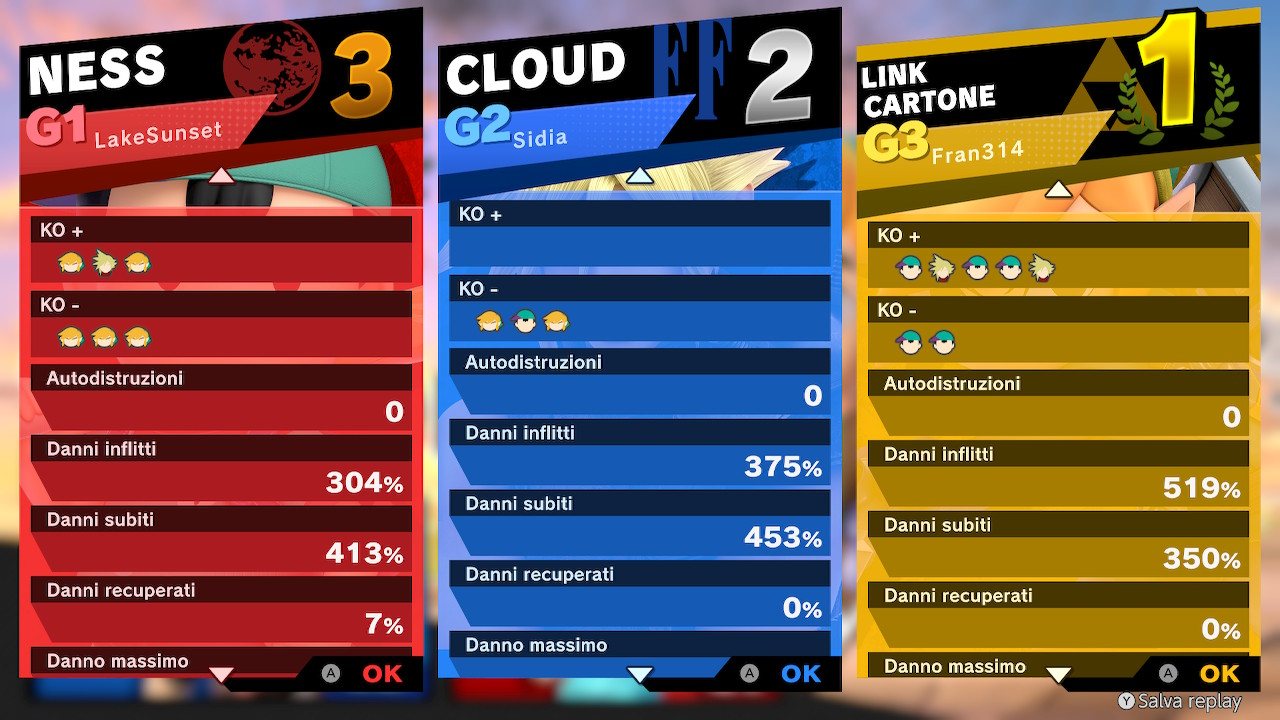
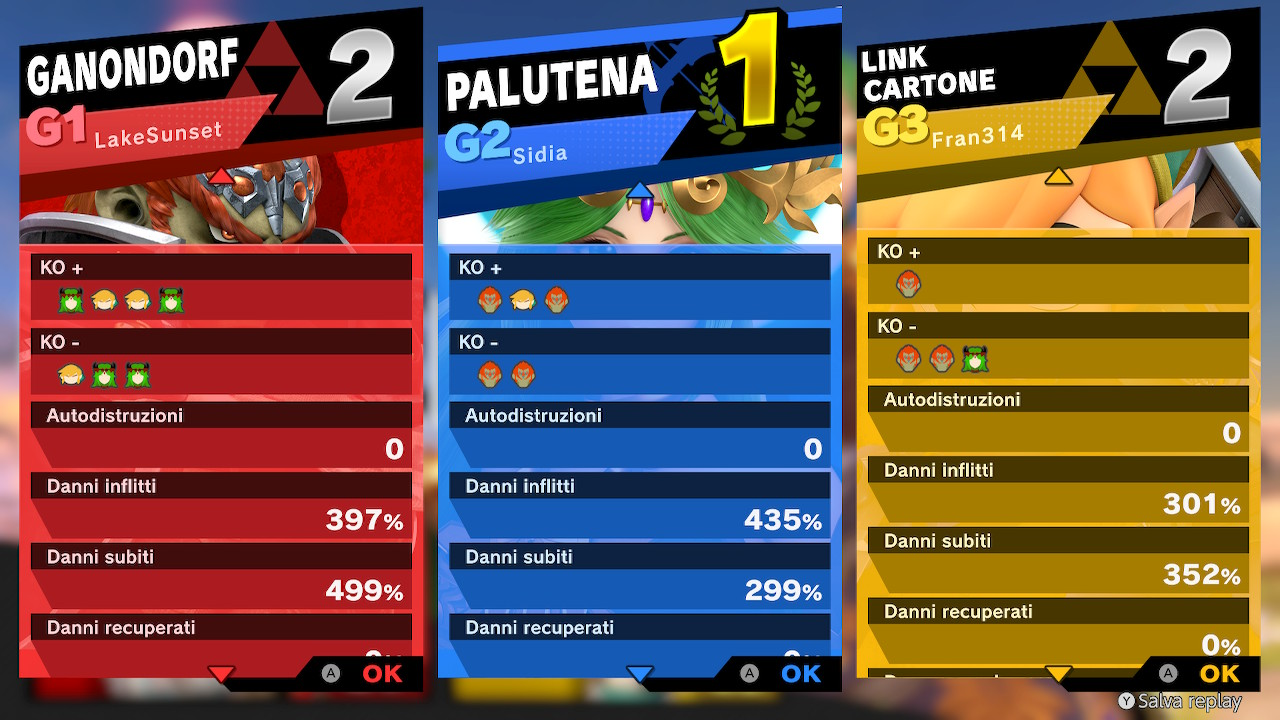
Second attempt to damage reading + bug fixing

diff --git a/SmashSecondData.py b/SmashSecondData.py
@@ -118,18 +118,23 @@ def getClosestPlayer(image, null_image, characters):
         character_distances = []
         for j in range(8):
             path = os.path.join(ICONS_FOLDER, folderizeName(characters[i]), str(j+1) + ".png")
-            character_image = cv2.imread(path)
+            character_image = cv2.imread(path, flags=cv2.IMREAD_UNCHANGED)
             character_image = cv2.cvtColor(character_image, cv2.COLOR_BGR2RGBA)
-            character_distances.append(imageDistance(character_image, image))
+            distance = imageDistance(character_image, image)
+            character_distances.append(distance)
         distances.append(numpy.min(character_distances))
     return numpy.argmin(distances) - 1
 
+def showImage(image):
+    image = cv2.cvtColor(image, cv2.COLOR_RGBA2BGR)
+    cv2.imshow("image", image)
+    cv2.waitKey(0)
 #--- ---#
 
 
 #--- TEST VARIABLES ---#
 positions = [3, 2, 1]
-characters = ["NESS", "CLOUD", "TOON LINK"]
+characters = ["GANONDORF", "PALUTENA", "TOON LINK"]
 #--- ---#
 
 
@@ -164,40 +169,46 @@ for i in range(PLAYERS):
     kill_icon_y = anchor_points[i] + KILLS_AC_OFF_Y
     kill_image = data[kill_icon_y : kill_icon_y + KILL_ICON_SIZE, kill_icon_x : kill_icon_x + KILL_ICON_SIZE]
     killer = getClosestPlayer(kill_image, null_images[i], characters)
-    if(killer != -1):
-        kill_string.append(killer + 1)
+    kill_string.append(killer + 1)
     
     kill_icon_x += KILLS_OFFSET
     kill_image = data[kill_icon_y : kill_icon_y + KILL_ICON_SIZE, kill_icon_x : kill_icon_x + KILL_ICON_SIZE]
     killer = getClosestPlayer(kill_image, null_images[i], characters)
-    if(killer != -1):
-        kill_string.append(killer + 1)
+    kill_string.append(killer + 1)
 
     kill_icon_x += KILLS_OFFSET
     kill_image = data[kill_icon_y : kill_icon_y + KILL_ICON_SIZE, kill_icon_x : kill_icon_x + KILL_ICON_SIZE]
     killer = getClosestPlayer(kill_image, null_images[i], characters)
-    if(killer != -1):
-        kill_string.append(killer + 1)
+    kill_string.append(killer + 1)
 
     kills.append(kill_string)
 
 given_damages = []
+taken_damages = []
 for i in range(PLAYERS):
     damage_x = AP_Xs[i] + DAMAGE_OFF_X
     given_dmg_y = anchor_points[i] + GIVEN_DMG_OFF_Y
     given_damage_rect = data[given_dmg_y : given_dmg_y + DAMAGE_HEIGHT, damage_x : damage_x + DAMAGE_WIDTH]
-    #for j in range(DAMAGE_RIGHT_BORDER_WIDTH):
-    #    for h in range(DAMAGE_HEIGHT):
-    #        given_damage_rect[h, -j] = numpy.array([0, 0, 0, 255])
-    #given_damage_rect = polarizeImage(given_damage_rect)
-    #given_damage_rect = cv2.resize(given_damage_rect, (2*DAMAGE_WIDTH, 2*DAMAGE_HEIGHT))
+    for j in range(DAMAGE_RIGHT_BORDER_WIDTH):
+        for h in range(DAMAGE_HEIGHT):
+            given_damage_rect[h, -j] = given_damage_rect[4, 1]
+    
+    given_damage_rect = cv2.resize(given_damage_rect, (3*DAMAGE_WIDTH, 3*DAMAGE_HEIGHT), interpolation=cv2.INTER_LANCZOS4)
     given_damages.append(normalizeDamage(pytesseract.image_to_string(given_damage_rect)))
+
+    taken_dmg_y = anchor_points[i] + TAKEN_DMG_OFF_Y
+    taken_damage_rect = data[taken_dmg_y : taken_dmg_y + DAMAGE_HEIGHT, damage_x : damage_x + DAMAGE_WIDTH]
+    for j in range(DAMAGE_RIGHT_BORDER_WIDTH):
+        for h in range(DAMAGE_HEIGHT):
+            taken_damage_rect[h, -j] = taken_damage_rect[4, 1]
+    taken_damage_rect = cv2.resize(taken_damage_rect, (3*DAMAGE_WIDTH, 3*DAMAGE_HEIGHT), interpolation=cv2.INTER_LANCZOS4)
+    taken_damages.append(normalizeDamage(pytesseract.image_to_string(taken_damage_rect)))
 
 
 for i in range(PLAYERS):
-    print(f'G{i+1} anchor point at {anchor_points[i]}')
-    print(f'killed by {kills[i]}')
+    print(f'G{i+1} killed by {kills[i]}')
     print(f'given damage: {given_damages[i]}')
+    print(f'taken damage: {taken_damages[i]}')
     print()
 
 #--- CONCLUSION ---#
